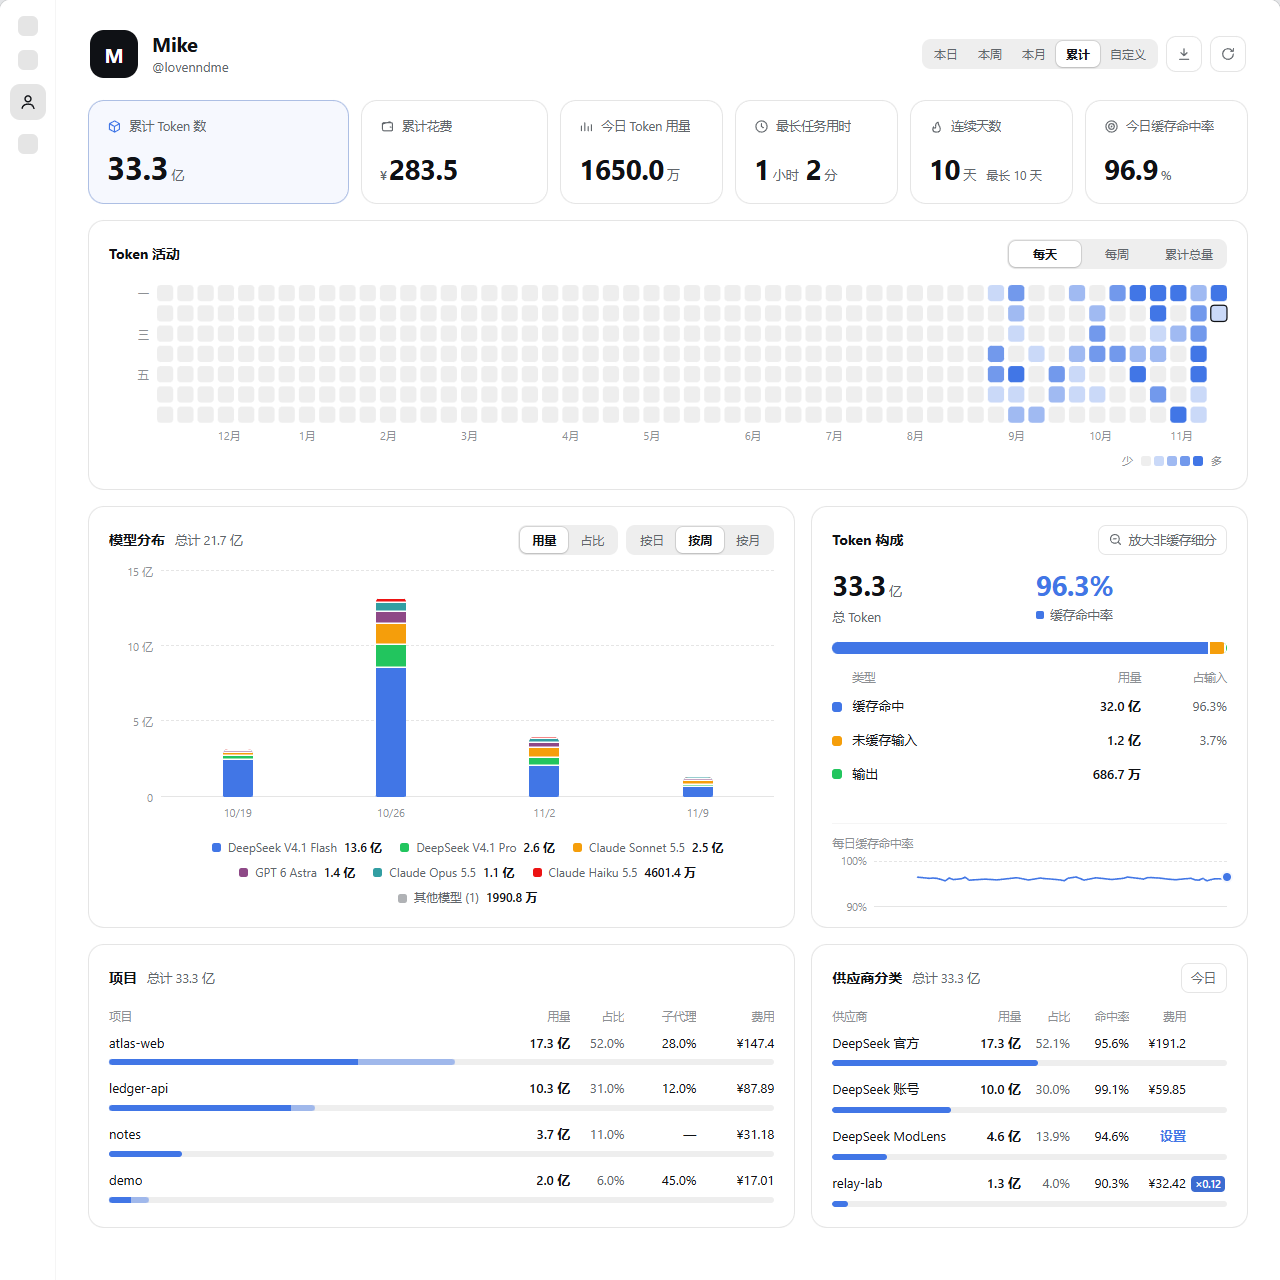
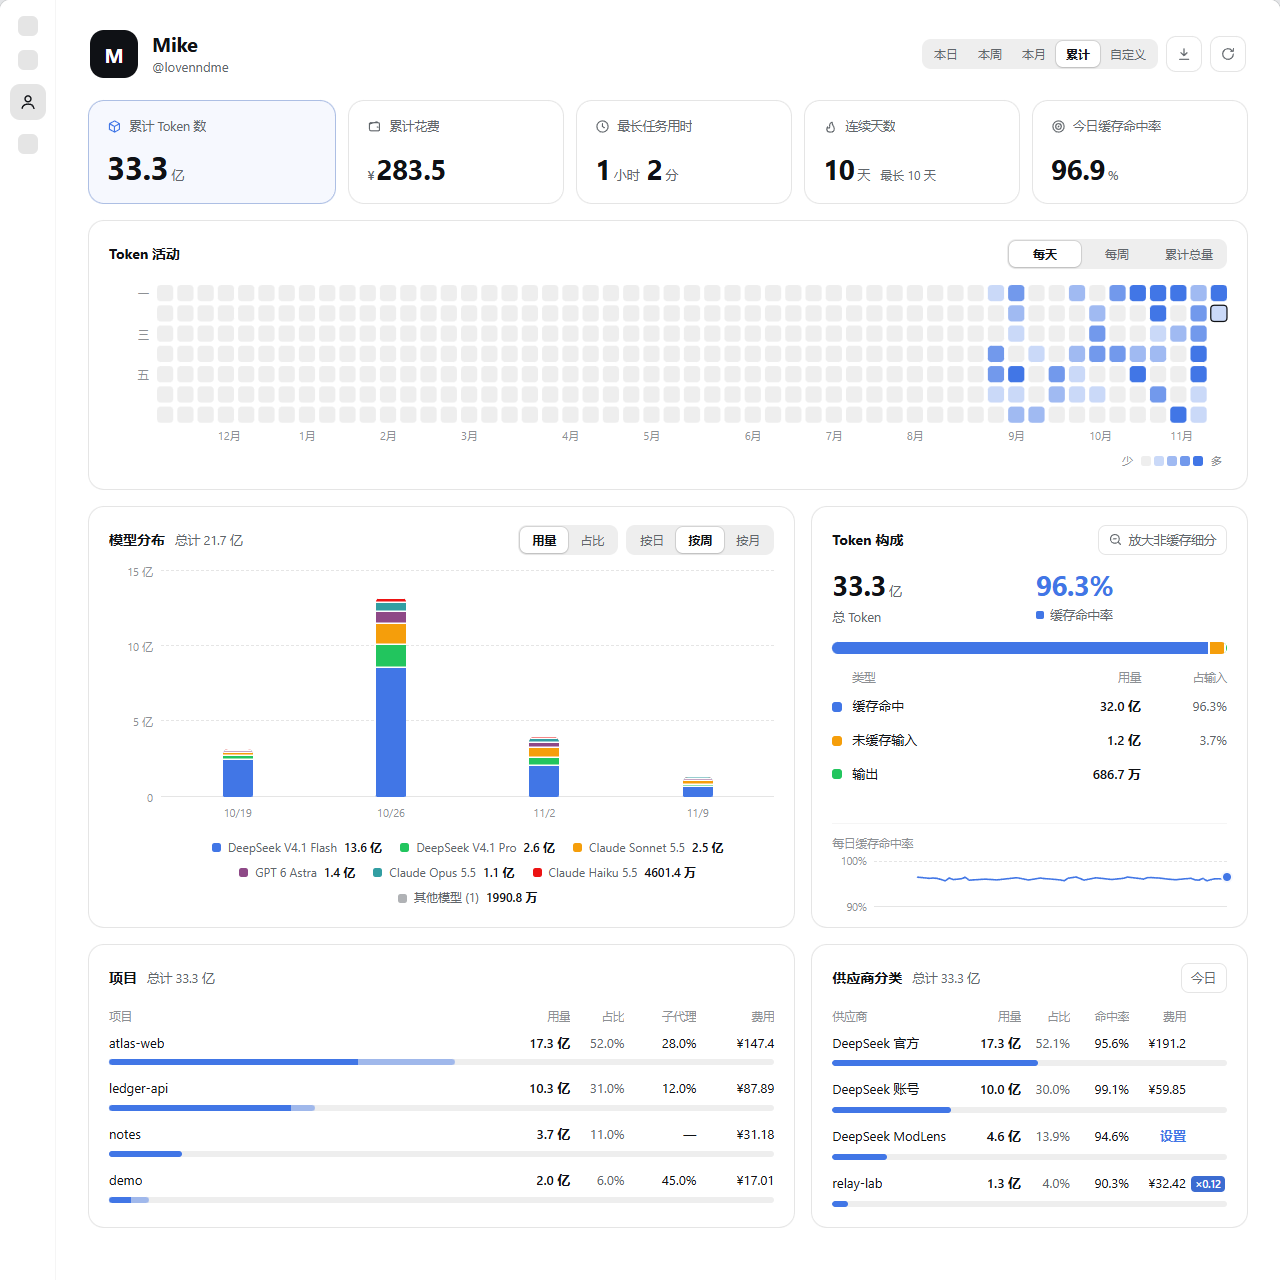
feat: drop the today's tokens card; five headline cards
With the range set to today it repeated the first card, and in other
ranges the header's Today button shows today's tokens with spend and mix.
The first card is now only slightly wider than the rest (1.15fr, enough
for the widest number and the delta); below 1040px the row is two cards
over three. README image recaptured.

diff --git a/client.js b/client.js
@@ -37,7 +37,6 @@ window.__ModuleLoader__.load({
 
     const EN = {
       'panel.title': 'Profile',
-      'stat.today': 'Tokens today',
       'stat.longestTurn': 'Longest task',
       'stat.longestStreak': 'Longest streak',
       'stat.currentStreak': 'Current streak',
@@ -157,7 +156,6 @@ window.__ModuleLoader__.load({
 
     const ZH = {
       'panel.title': '个人主页',
-      'stat.today': '今日 Token 用量',
       'stat.longestTurn': '最长任务用时',
       'stat.longestStreak': '最长连续天数',
       'stat.currentStreak': '当前连续天数',
@@ -1061,14 +1059,10 @@ window.__ModuleLoader__.load({
     }
 
     /** 指标卡里不跟范围走的几个数。 */
-    function deriveKpis(snapshot, today) {
+    function deriveKpis(snapshot) {
       const totals = (snapshot && snapshot.totals) || {}
-      const byDate = indexDaily(snapshot && snapshot.daily)
-      const todayKey = localDateKey(today)
-      const todayEntry = byDate.get(todayKey)
       return {
         tokens: toNumber(totals.tokens),
-        today: todayEntry ? toNumber(todayEntry.tokens) : 0,
         longestTurnMs: toNumber(totals.longestTurnMs),
         longestStreak: toNumber(totals.longestStreak),
         currentStreak: toNumber(totals.currentStreak),
@@ -1265,7 +1259,6 @@ window.__ModuleLoader__.load({
     /** 小图标集（内联 SVG，currentColor 描边，随主题走）。 */
     const ICON_PATHS = {
       tokens: 'M12 3l8 4.5v9L12 21l-8-4.5v-9L12 3zM4.5 7.7L12 12l7.5-4.3M12 12v8.6',
-      today: 'M4 19V11m5.3 8V6m5.4 13v-7M20 19V9',
       clock: 'M12 7v5l3 2M12 3a9 9 0 100 18 9 9 0 000-18z',
       calendar: 'M4 7h16v13H4zM8 3v4m8-4v4M4 11h16',
       flame: 'M12 21c3.9 0 6-2.4 6-5.4 0-4.2-4.2-5.6-3.3-10.6-2.6.8-4.2 3.1-4.2 5 0 1.1.4 1.9.4 2.7 0 1.1-.8 1.8-1.7 1.8-1 0-1.9-.9-1.9-2.2-1 1.4-1.3 2.9-1.3 4.2C6 18.6 8.1 21 12 21z',
@@ -3423,7 +3416,7 @@ font-size:13px;line-height:1.45;-webkit-font-smoothing:antialiased}
 .dps-seg button{appearance:none;position:relative;border:0;background:transparent;color:var(--dps-muted);font-size:12px;line-height:1;padding:7px 12px;border-radius:7px;cursor:pointer;white-space:nowrap;transition:color .15s ease}
 .dps-seg button:hover{color:var(--dps-ink)}
 .dps-seg button[aria-pressed="true"]{color:var(--dps-ink);font-weight:600}
-.dps-kpis{display:grid;grid-template-columns:minmax(0,1.6fr) minmax(0,1.15fr) repeat(4,minmax(0,1fr));gap:12px}
+.dps-kpis{display:grid;grid-template-columns:minmax(0,1.15fr) repeat(4,minmax(0,1fr));gap:12px}
 .dps-kpi{min-width:0;display:flex;flex-direction:column;justify-content:space-between;gap:16px;padding:16px 18px 18px;border:1px solid var(--dps-line);border-radius:var(--dps-radius);background:var(--dps-card)}
 .dps-kpi[data-hero="true"]{border-color:color-mix(in srgb,var(--dps-accent) 30%,var(--dps-line));background:color-mix(in srgb,var(--dps-accent) 5%,var(--dps-card))}
 .dps-kpi-label{display:flex;flex-wrap:wrap;align-items:center;gap:4px 7px;min-width:0;font-size:12.5px;color:var(--dps-muted)}
@@ -3474,12 +3467,13 @@ body[data-ds-dark-theme] .dps-date{color-scheme:dark}
 .dps-actions{flex:1 1 100%;margin-left:0;justify-content:flex-start}
 }
 @container dps (max-width:1040px){
-.dps-kpis{grid-template-columns:repeat(3,minmax(0,1fr))}
+.dps-kpis{grid-template-columns:repeat(6,minmax(0,1fr))}
+.dps-kpi{grid-column:span 2}
+.dps-kpi[data-hero="true"],.dps-kpi[data-dps-kpi="cost"]{grid-column:span 3}
 .dps-grid[data-row="lists"]{grid-template-columns:minmax(0,1fr)}
 .dps-grid{grid-template-columns:minmax(0,1fr)}
 }
 @container dps (max-width:720px){
-.dps-kpis{grid-template-columns:repeat(2,minmax(0,1fr))}
 .dps-grid[data-row="lists"]{grid-template-columns:minmax(0,1fr)}
 .dps-num{font-size:24px}
 .dps-kpi[data-hero="true"] .dps-num{font-size:30px}
@@ -4104,7 +4098,6 @@ body[data-ds-dark-theme] .dps-cost-tag:not([data-error="true"]){background:var(-
       const delta = props.delta === undefined ? null : props.delta
       // 首次拿到数据时从 0 计数到目标值，之后的变化做短过渡；未就绪时目标为 0（显示「—」）
       const shownRange = useTween(ready ? summary.tokens : 0, 900)
-      const shownToday = useTween(ready ? k.today : 0, 900)
       const shownTurn = useTween(ready ? k.longestTurnMs : 0, 900)
       const shownLongest = useTween(ready ? k.longestStreak : 0, 700)
       const shownCurrent = useTween(ready ? k.currentStreak : 0, 700)
@@ -4165,7 +4158,6 @@ body[data-ds-dark-theme] .dps-cost-tag:not([data-error="true"]){background:var(-
           parts: ready && costKnown ? moneyParts(shownCost) : null,
           title: costHints.join('\n'),
         }),
-        h(Kpi, { id: 'today', icon: 'today', label: t('stat.today'), raw: ready ? k.today : undefined, parts: ready ? tokenValue(shownToday) : null }),
         h(Kpi, {
           id: 'longestTurn',
           icon: 'clock',
@@ -4292,7 +4284,7 @@ body[data-ds-dark-theme] .dps-cost-tag:not([data-error="true"]){background:var(-
 
       const today = startOfDay(new Date())
       const todayKey = localDateKey(today)
-      const kpis = useMemo(() => deriveKpis(snapshot, today), [snapshot, todayKey])
+      const kpis = useMemo(() => deriveKpis(snapshot), [snapshot])
 
       // —— 时间范围：汇总卡都从日明细重算，宿主算好的全局 totals 只留给连续天数等全局指标 ——
       const rangeWin = useMemo(() => rangeWindow(range, todayKey, custom), [range, todayKey, custom])

diff --git a/docs/INTERNALS.md b/docs/INTERNALS.md
@@ -7,12 +7,11 @@ Back to the [README](../README.md) · [中文 README](../README.zh.md)
 | Card | Definition |
 |---|---|
 | Cumulative tokens | Per `assistant/message` step: uncached input + cache read + cache write + output, summed over all sessions. DSH logs the four parts disjointly (`inputTokens` is only the uncached part), so nothing is counted twice. `totalTokens` is used only when all four parts are missing; a step whose `totalTokens` disagrees with the sum is counted in `usageMismatchCalls` and never used to adjust a number. Some steps in older DSH logs (Aug–Sep 2026) have no `totalTokens`; the earlier `max(totalTokens, input + output)` dropped their cache. |
-| Today's tokens | The same per-step sum restricted to today's local calendar day. |
 | Longest task | Longest span between a `turn/start` and its `turn/end`. Turns interrupted without a `turn/end` are not counted. |
 | Streaks | An active day has at least one token. The current streak ends today, or yesterday when today has no activity yet. One card shows the current streak with the longest beside it. |
 | Cache hit today | Today's cache read ÷ (uncached input + cache read + cache write); "—" until today has input. |
 | Token activity | Last 53 weeks (this week plus 52), weeks start on Monday. *Daily* colours each day by the quartile of non-zero days; *Weekly* draws one bar per week total; *Cumulative* is the running total including usage older than the window, so its last point equals the cumulative tokens. |
-| Time range | Header switch: today, this week (Monday to today), this month (the 1st to today), all time (the default), or custom dates (two date fields; reversed dates are swapped, the end is capped at today, and the window may lie entirely in the past, in which case the charts and the delta end at its last day). The first number, Token mix and the provider split are summed from daily entries inside the range, so they always agree (the model distribution does not follow the range, see below); today's tokens, longest task and the streaks stay all-time. The first card draws no trend: the change against the previous period is a pill (arrow and percentage, red up, green down) right after the number's slot. The slot is sized for the widest value it can show (`8888.8 万`, `888.8M`), so the pill keeps one position while the number counts between ranges and does not move with the number of digits; it drops below the number only when the card cannot fit that widest value and the pill. The delta compares the finished days of the current period (today excluded) with the same number of days at the start of the previous period — for this week, the same days (Monday on) of last week; for this month, the same days of last month, capped at its last day; for a custom window, the window of equal length before it — and is hidden when the previous period starts before the first day with data. Export writes the selected range as CSV (one row per day: `input`, `output`, `cache_read`, `cache_write`, then a column per provider) or JSON (adds each provider's four parts and `usageMismatchCalls`). |
+| Time range | Header switch: today, this week (Monday to today), this month (the 1st to today), all time (the default), or custom dates (two date fields; reversed dates are swapped, the end is capped at today, and the window may lie entirely in the past, in which case the charts and the delta end at its last day). The first number, Token mix and the provider split are summed from daily entries inside the range, so they always agree (the model distribution does not follow the range, see below); longest task and the streaks stay all-time, and today's tokens are the first number with the range set to today. The first card draws no trend: the change against the previous period is a pill (arrow and percentage, red up, green down) right after the number's slot. The slot is sized for the widest value it can show (`8888.8 万`, `888.8M`), so the pill keeps one position while the number counts between ranges and does not move with the number of digits; it drops below the number only when the card cannot fit that widest value and the pill. The delta compares the finished days of the current period (today excluded) with the same number of days at the start of the previous period — for this week, the same days (Monday on) of last week; for this month, the same days of last month, capped at its last day; for a custom window, the window of equal length before it — and is hidden when the previous period starts before the first day with data. Export writes the selected range as CSV (one row per day: `input`, `output`, `cache_read`, `cache_write`, then a column per provider) or JSON (adds each provider's four parts and `usageMismatchCalls`). |
 | Token mix (Cache Lens) | The four parts as logged, nothing inferred: cache hit = `cacheReadTokens`, cache write = `cacheWriteTokens` (a row only when non-zero), uncached input = `inputTokens`, output = `outputTokens`; they add up to the total. **Cache hit rate = cache hit ÷ (uncached input + cache hit + cache write)**: a write is billed and is not a hit, so it is in the denominator only. Without writes this is DeepSeek's hit ÷ (hit + miss). The percentage column is over all input (so the cache-hit row equals the hit rate), output has none; the zoomed view's denominator is everything except hits (uncached input + cache write + output), which its column header says. Underneath, the daily cache hit rate over the days of the selected range (the last 90 days for all time); days without input have no rate and the line joins across them; the axis runs from the lowest value rounded down to 5% up to 100%. |
 | Model split | Independent of the header range: its own switch picks the granularity (default weekly) and each granularity has a fixed window of calendar buckets ending with the one that holds today, empty buckets included — daily: the last 7 days; weekly: the last 4 Monday-based weeks; monthly: the last 6 months. The last week / month bucket is partial (up to today). The header total is the sum of that window, so it differs from the first card unless the ranges coincide. DeepSeek ids are grouped by version and tier (`deepseek-v4-1-flash-261017`, `deepseek-v4.1-flash` → DeepSeek V4.1 Flash; the unversioned official `deepseek-flash` alias → V4.1 Flash). Other vendors keep their own family (`gemini-2-5-pro` → Gemini 2.5 Pro). The top six families get their own colour; the rest are merged into "Other models (N)". The **Share** switch swaps the columns for a pie of the same window: one slice per family (clockwise from 12 o'clock, largest first, "Other" last), a percent label outside the circle for slices of 6% or more, 2 px surface gaps between slices; the legend then lists percentages (hovering a legend entry highlights its slice) and the hover / keyboard tooltip gives the share and the token amount. The header total stays in tokens. |
 | Provider breakdown | Per-step `data.message.source.provider`, e.g. `deepseek-official`, `deepseek-account`. Shares are of the selected range's total; unknown ids are shown as they are. Each row has its own cache hit rate from that provider's four parts (the "Other" row uses their combined parts). The **Today** button shows today only; switching the header range releases it. The pencil beside a name renames that provider on this machine only (see *Provider names* below). |

diff --git a/README.md b/README.md
@@ -33,7 +33,7 @@ dsh-profile-stats
 
 | | Section | What it shows |
 |---|---|---|
-| 📊 | **Five headline numbers** | Tokens in the selected range (with the change against the previous period beside the number), today's tokens, longest task, the active-day streak with your best, today's cache hit rate |
+| 📊 | **Five headline numbers** | Tokens in the selected range (with the change against the previous period beside the number), its spend, longest task, the active-day streak with your best, today's cache hit rate |
 | 🗓 | **Token activity** | A 12-month day grid, switchable between daily, weekly and running-total views |
 | 🧩 | **Model distribution** | Stacked columns by model family (version + tier, so `v4-flash` and `v4.1-flash` stay apart) by day (last 7 days), week (last 4 weeks) or month (last 6 months) — independent of the header range — as stacked columns of token amounts, or as a pie of each model's share of the window |
 | 🎯 | **Cache Lens** | Total tokens plus the cache hit rate, and the cache-hit / uncached-input / output split (plus cache write when a provider reports it) as a segmented bar, with a zoom into the uncached part and the daily cache hit rate underneath |

diff --git a/README.zh.md b/README.zh.md
@@ -33,7 +33,7 @@ dsh-profile-stats
 
 | | 区块 | 说明 |
 |---|---|---|
-| 📊 | **五个核心数字** | 所选范围内的 Token（数字右边是与上一周期的对比）、今日用量、最长任务用时、连续天数（附最长纪录）、今日缓存命中率 |
+| 📊 | **五个核心数字** | 所选范围内的 Token（数字右边是与上一周期的对比）和花费、最长任务用时、连续天数（附最长纪录）、今日缓存命中率 |
 | 🗓 | **Token 活动** | 近 12 个月日格热力图，可在「每天 / 每周 / 累计总量」之间切换 |
 | 🧩 | **模型分布** | 按模型家族堆叠（版本 + 档位分开，`v4-flash` 与 `v4.1-flash` 不会混在一起），不跟页头范围走，自己选按日（最近 7 天）/ 周（最近 4 周）/ 月（最近 6 个月），用量用堆叠柱，占比用饼图（各模型占这段时间总量的比例） |
 | 🎯 | **Token 构成（Cache Lens）** | 总 Token 与缓存命中率，以及「缓存命中 / 未缓存输入 / 输出」分段占比条（供应商报了缓存写入时多一段），可放大查看非缓存部分的构成；底部是每日缓存命中率 |
